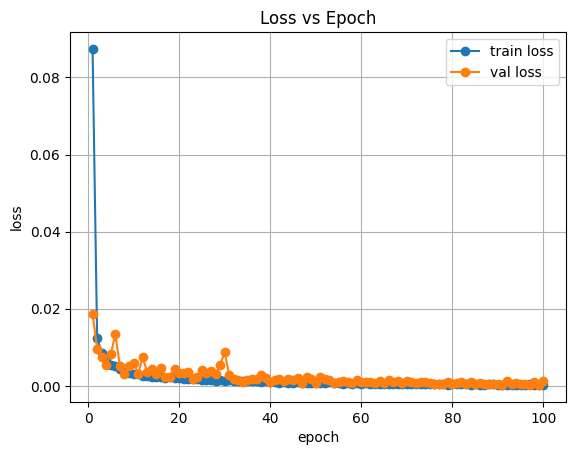
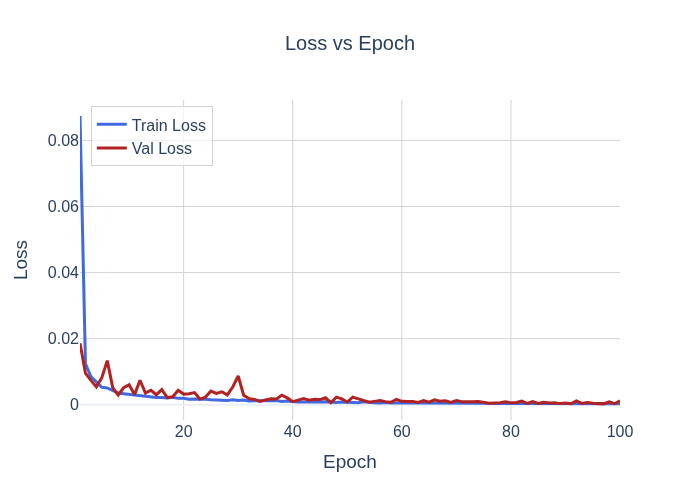
clean plots

diff --git a/training_dir/metrics_plot.py b/training_dir/metrics_plot.py
@@ -1,4 +1,3 @@
-
 """Small utility to plot training metrics saved as CSV.
 
 Reads a CSV with columns: epoch, avg_train_loss, avg_val_loss,
@@ -13,7 +12,8 @@ import csv
 import os
 from typing import Dict, List
 
-import matplotlib.pyplot as plt
+
+import plotly.graph_objects as go
 
 
 def read_metrics(csv_path: str) -> Dict[str, List[float]]:
@@ -23,8 +23,10 @@ def read_metrics(csv_path: str) -> Dict[str, List[float]]:
 
 	with open(csv_path, newline="") as f:
 		reader = csv.DictReader(f)
+		fieldnames = reader.fieldnames
 		for row in reader:
-			for k, v in row.items():
+			for k in fieldnames:
+				v = row.get(k, "")
 				if k is None:
 					continue
 				k = k.strip()
@@ -35,36 +37,50 @@ def read_metrics(csv_path: str) -> Dict[str, List[float]]:
 	return metrics
 
 
-def plot_losses(epoch: List[float], train: List[float], val: List[float], outpath: str | None):
-	plt.figure()
-	plt.plot(epoch, train, "-o", label="train loss")
-	plt.plot(epoch, val, "-o", label="val loss")
-	plt.xlabel("epoch")
-	plt.ylabel("loss")
-	plt.title("Loss vs Epoch")
-	plt.legend()
-	plt.grid(True)
+
+def plot_losses(epoch: List[float], train: List[float], val: List[float], outpath: str | None, show: bool = False):
+	fig = go.Figure()
+	fig.add_trace(go.Scatter(x=epoch, y=train, mode='lines', name='Train Loss',
+							 line=dict(color='royalblue', width=3),
+							 connectgaps=False))
+	fig.add_trace(go.Scatter(x=epoch, y=val, mode='lines', name='Val Loss',
+							 line=dict(color='firebrick', width=3),
+							 connectgaps=False))
+	fig.update_layout(
+		title=dict(text='Loss vs Epoch', font=dict(size=20), x=0.5),
+		xaxis=dict(title='Epoch', showgrid=True, gridcolor='lightgrey', zeroline=True),
+		yaxis=dict(title='Loss', showgrid=True, gridcolor='lightgrey', zeroline=True),
+		template='plotly_white',
+		legend=dict(x=0.02, y=0.98, bgcolor='rgba(255,255,255,0.7)', bordercolor='lightgrey', borderwidth=1),
+		font=dict(size=16)
+	)
 	if outpath:
-		plt.savefig(outpath, bbox_inches="tight")
-	else:
-		plt.show()
-	plt.close()
+		fig.write_image(outpath)
+	if show:
+		fig.show()
 
 
-def plot_rel_error(epoch: List[float], train: List[float], val: List[float], outpath: str | None):
-	plt.figure()
-	plt.plot(epoch, train, "-o", label="train rel error")
-	plt.plot(epoch, val, "-o", label="val rel error")
-	plt.xlabel("epoch")
-	plt.ylabel("relative error")
-	plt.title("Relative L2 Error vs Epoch")
-	plt.legend()
-	plt.grid(True)
+
+def plot_rel_error(epoch: List[float], train: List[float], val: List[float], outpath: str | None, show: bool = False):
+	fig = go.Figure()
+	fig.add_trace(go.Scatter(x=epoch, y=train, mode='lines', name='Train Rel Error',
+							 line=dict(color='seagreen', width=3),
+							 connectgaps=False))
+	fig.add_trace(go.Scatter(x=epoch, y=val, mode='lines', name='Val Rel Error',
+							 line=dict(color='orange', width=3),
+							 connectgaps=False))
+	fig.update_layout(
+		title=dict(text='Relative L2 Error vs Epoch', font=dict(size=20), x=0.5),
+		xaxis=dict(title='Epoch', showgrid=True, gridcolor='lightgrey', zeroline=True),
+		yaxis=dict(title='Relative Error', showgrid=True, gridcolor='lightgrey', zeroline=True),
+		template='plotly_white',
+		legend=dict(x=0.02, y=0.98, bgcolor='rgba(255,255,255,0.7)', bordercolor='lightgrey', borderwidth=1),
+		font=dict(size=16)
+	)
 	if outpath:
-		plt.savefig(outpath, bbox_inches="tight")
-	else:
-		plt.show()
-	plt.close()
+		fig.write_image(outpath)
+	if show:
+		fig.show()
 
 
 def main() -> None:
@@ -91,19 +107,16 @@ def main() -> None:
 	train_rel = metrics.get("avg_train_relative_error") or metrics.get("train_relative_error") or []
 	val_rel = metrics.get("avg_val_relative_error") or metrics.get("val_relative_error") or []
 
+
 	if train_loss and val_loss:
 		outpath = os.path.join(outdir, "metrics_loss.png")
-		plot_losses(epoch, train_loss, val_loss, outpath if not args.show else None)
+		plot_losses(epoch, train_loss, val_loss, outpath if not args.show else None, show=args.show)
 		print(f"Saved loss plot to {outpath}")
 
 	if train_rel and val_rel:
 		outpath2 = os.path.join(outdir, "metrics_rel_error.png")
-		plot_rel_error(epoch, train_rel, val_rel, outpath2 if not args.show else None)
+		plot_rel_error(epoch, train_rel, val_rel, outpath2 if not args.show else None, show=args.show)
 		print(f"Saved relative-error plot to {outpath2}")
-
-	if args.show:
-		# If --show was passed, also display figures after saving
-		plt.show()
 
 
 if __name__ == "__main__":
